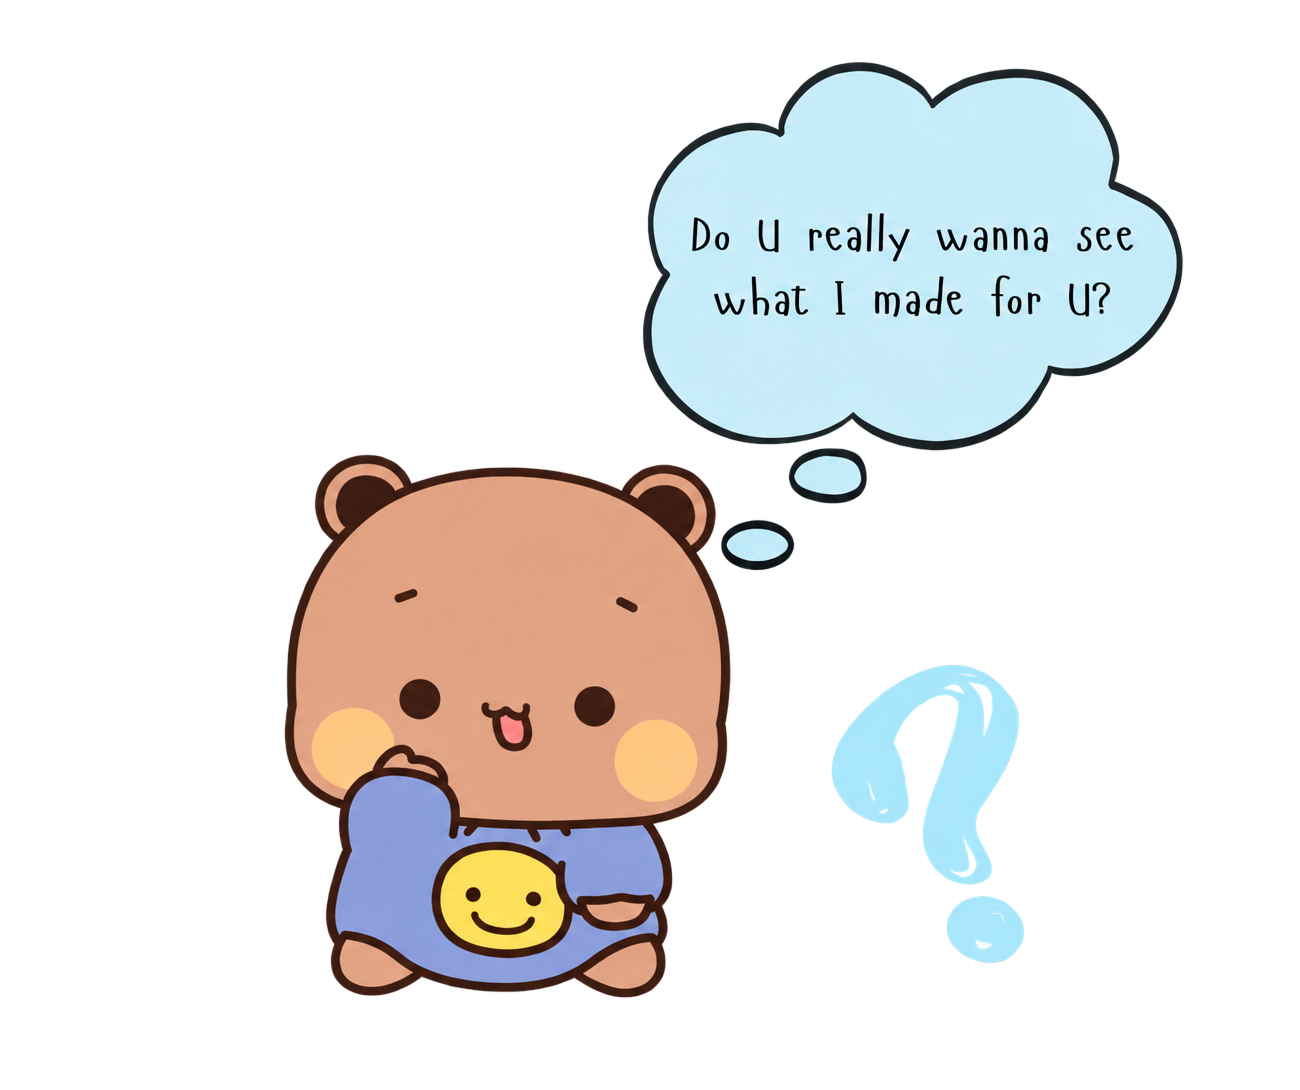
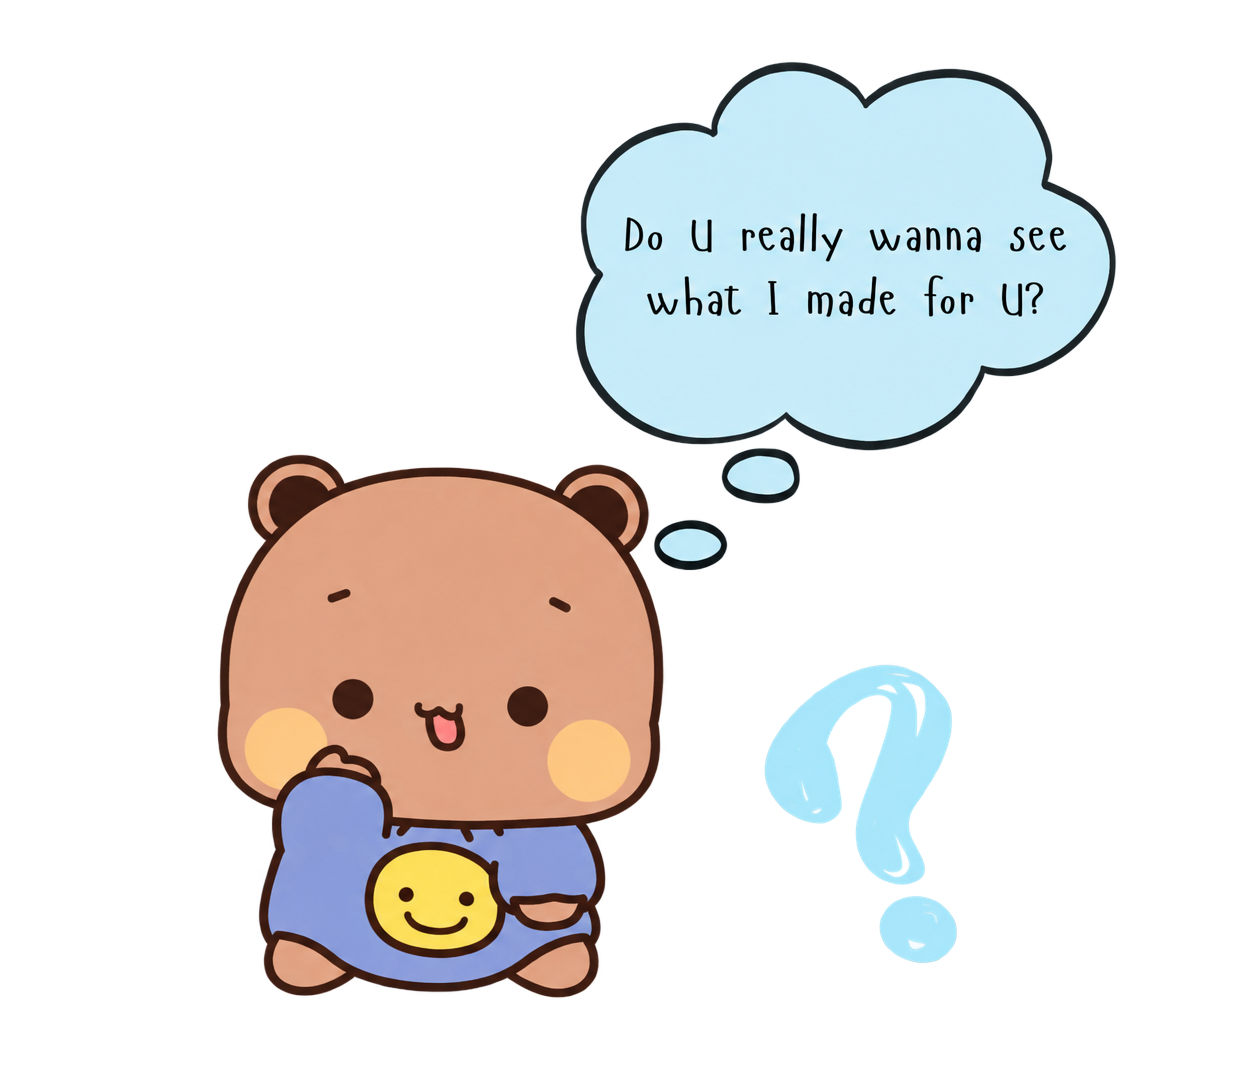
.

diff --git a/september.html b/september.html
@@ -1390,7 +1390,7 @@
 
             .qn-btn {
                 padding: 0.55rem 0.8rem;
-                font-size: 0.82rem;
+                font-size: 0.984rem;
                 max-width: 120px;
             }
         }
@@ -2056,7 +2056,7 @@
             // Always allow tapping as a fallback
             const cake = document.getElementById('cake-scene');
             cake.style.cursor = 'pointer';
-            cake.onclick = blowNext;
+            cake.onclick = blowAll;
 
             // Start directly since we auto-redirect out of WebView
             startMic();
